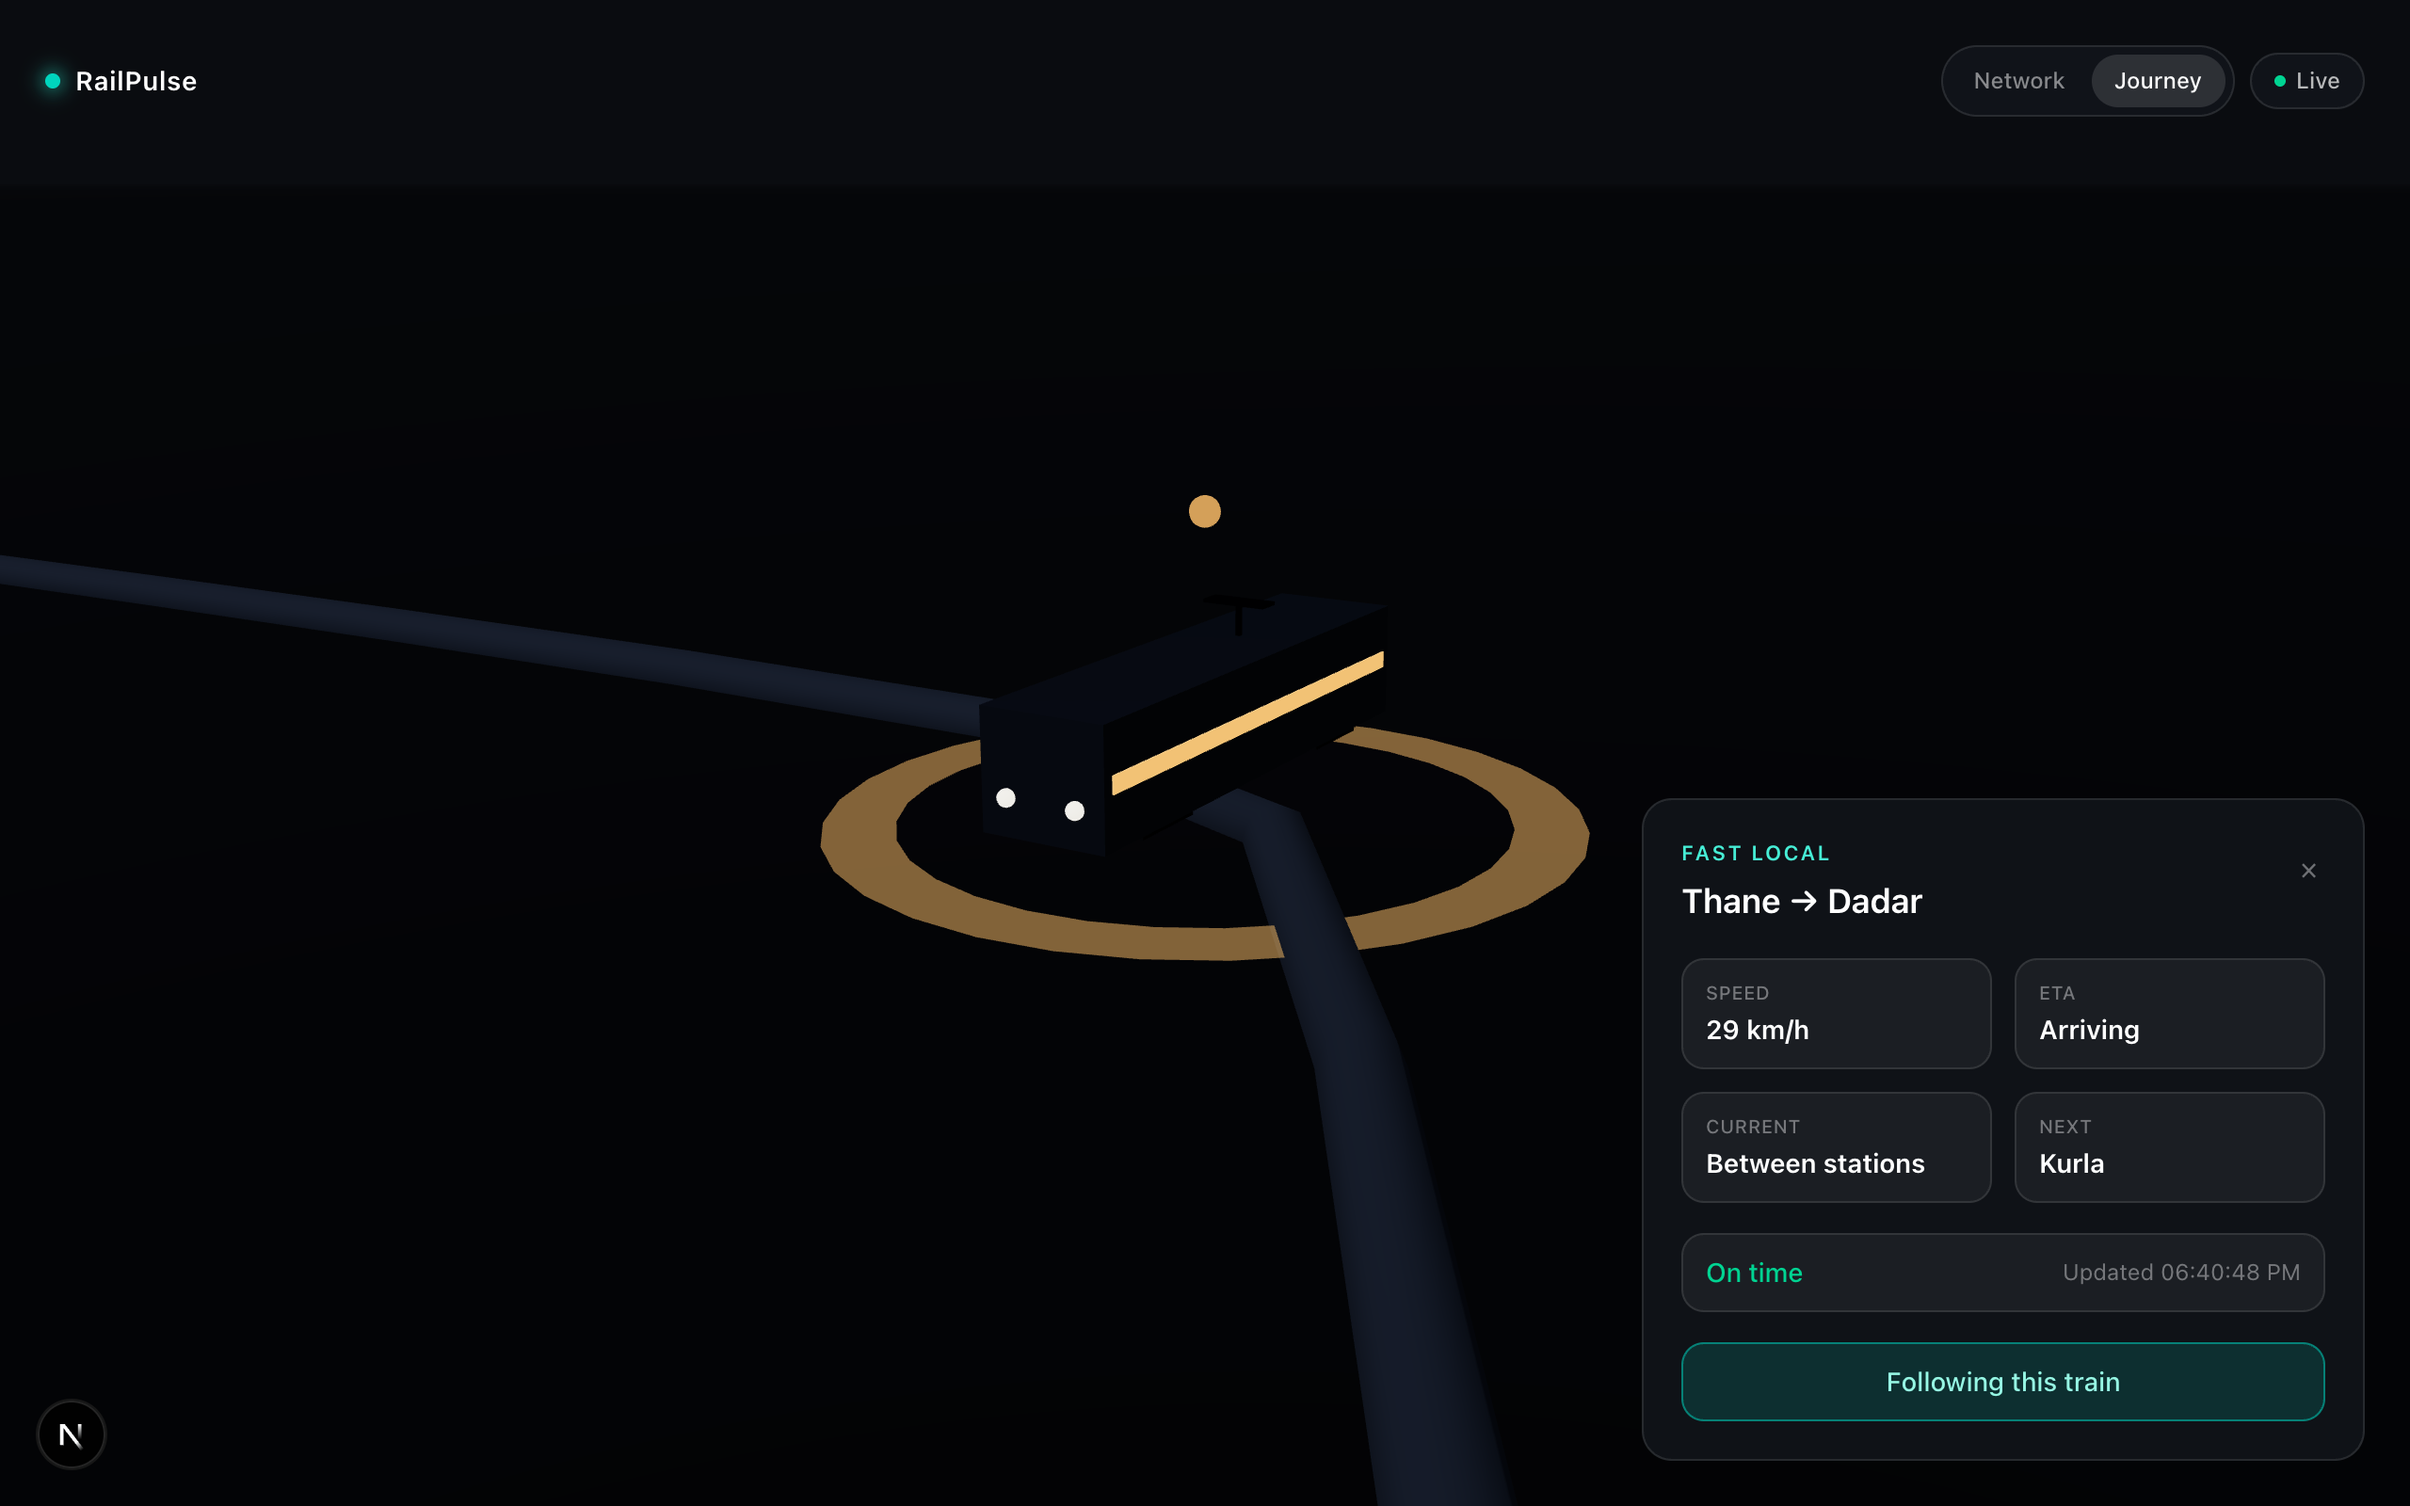
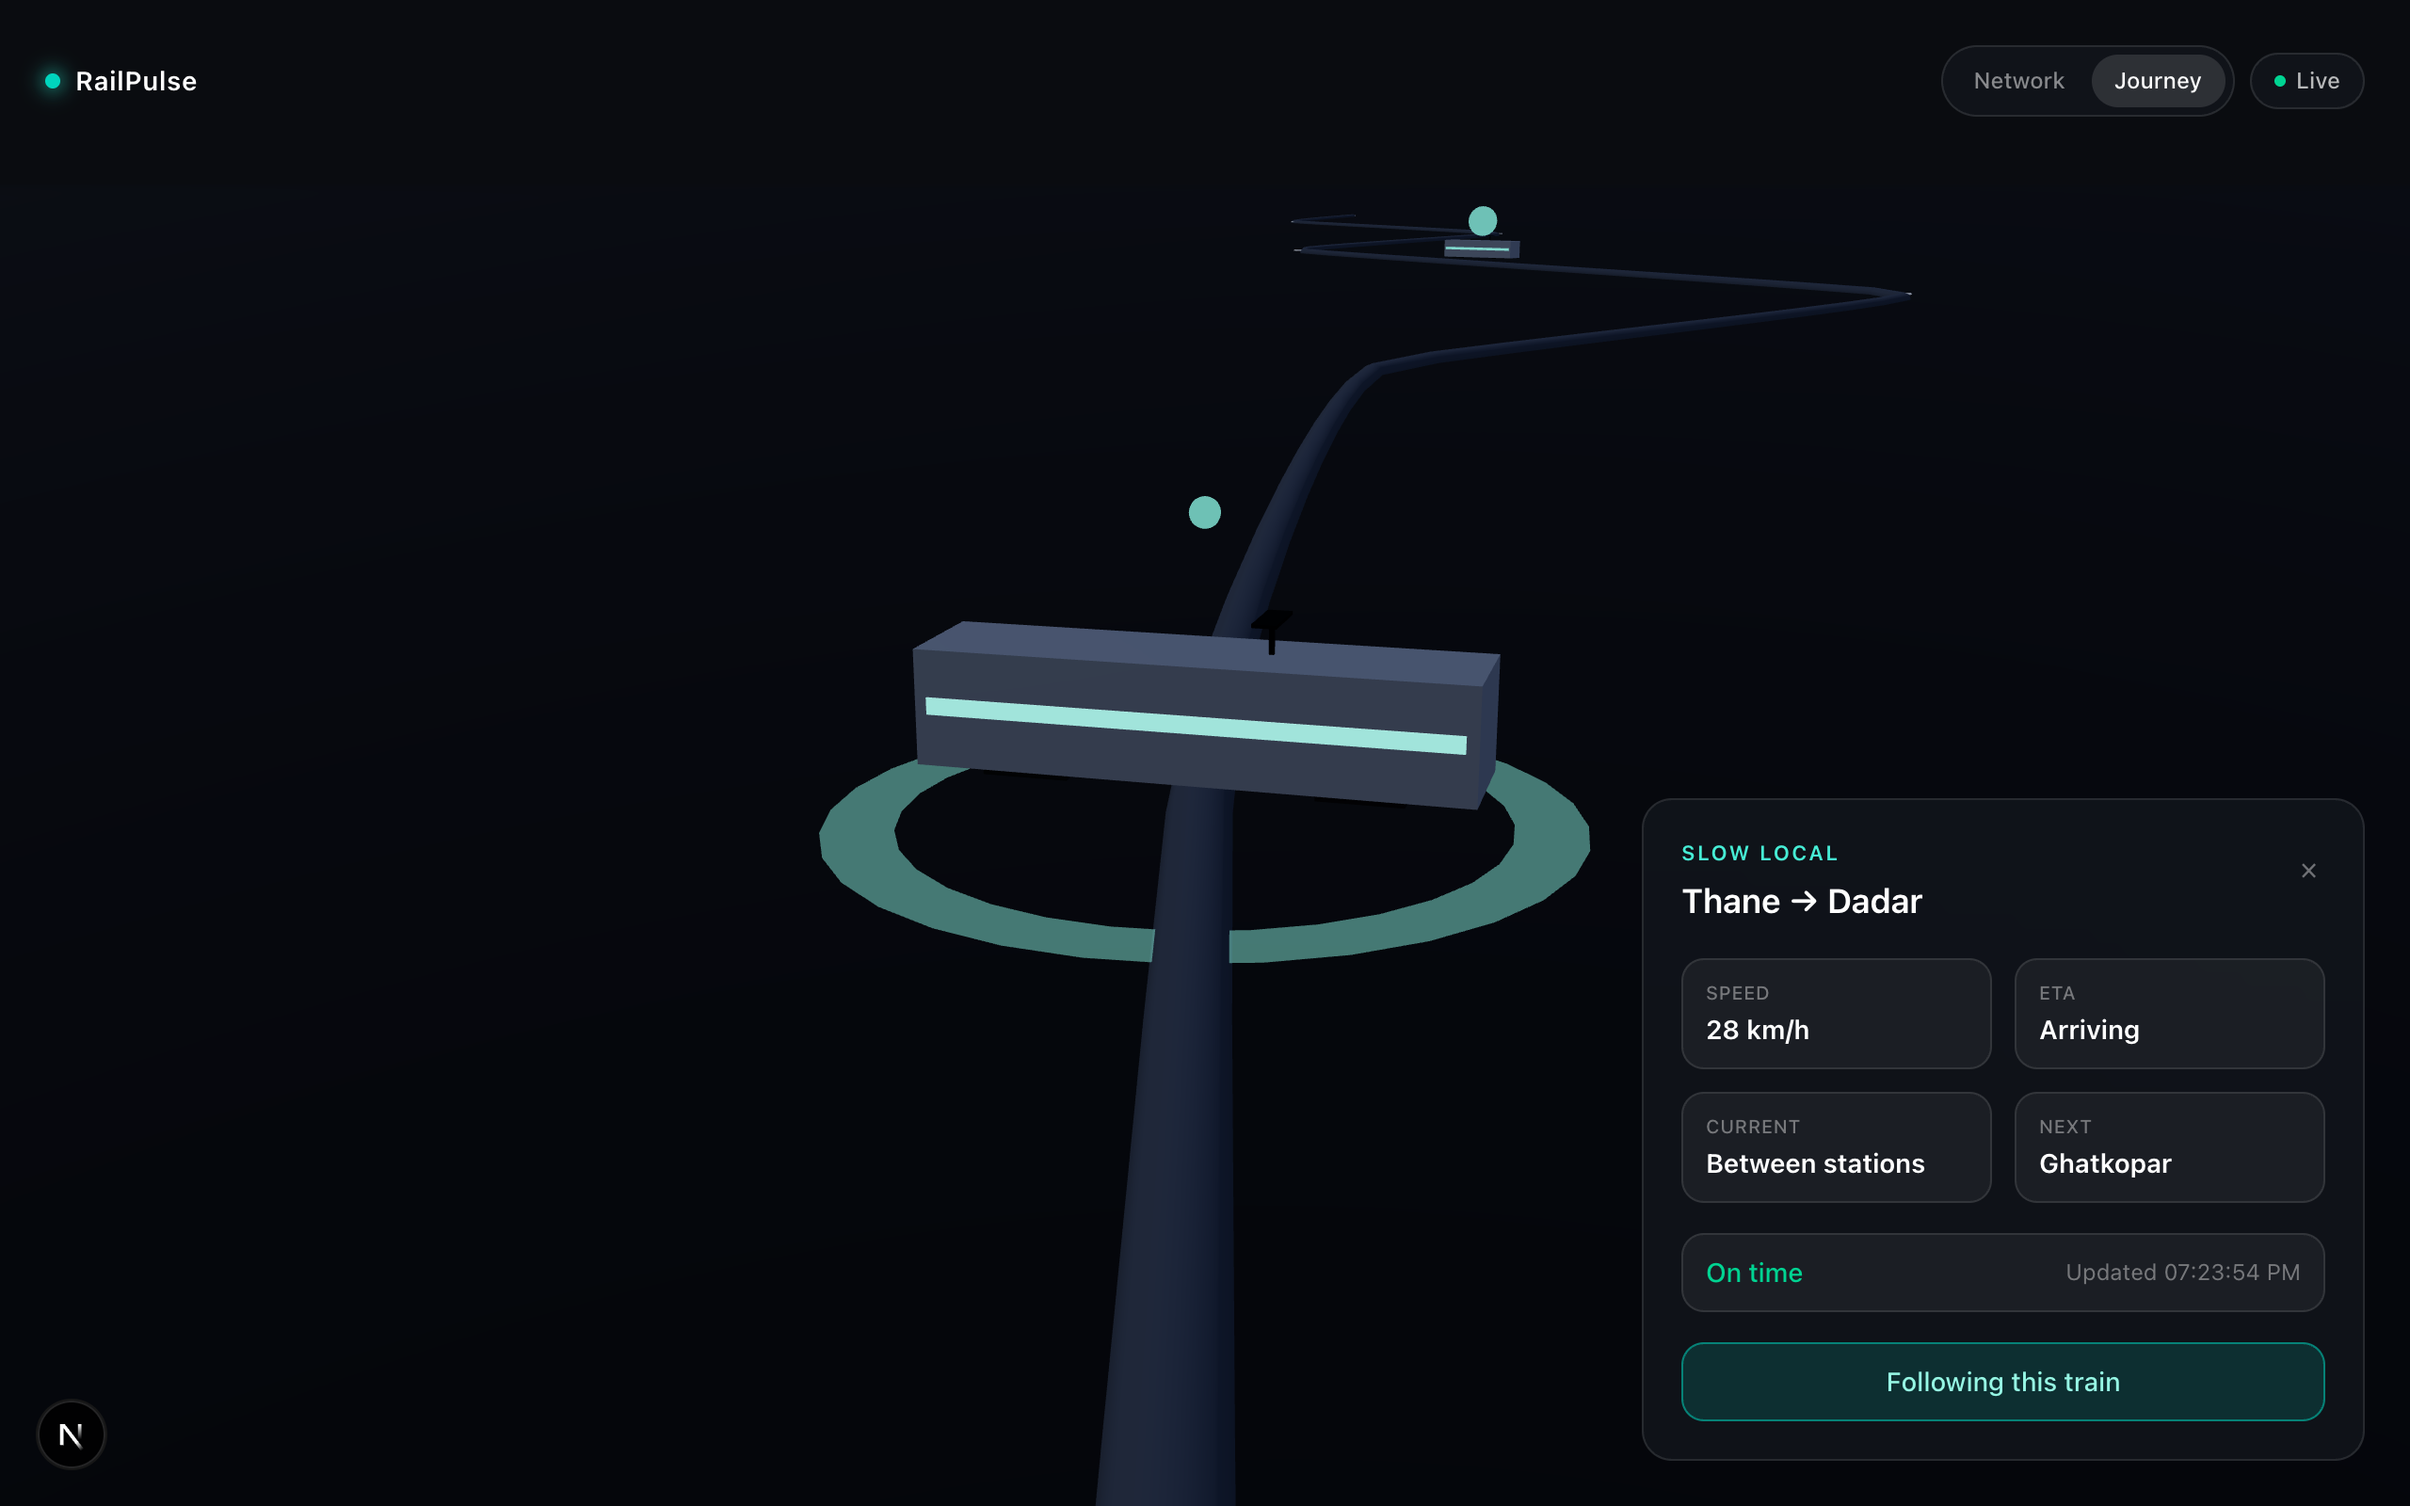
Fix trains rendering as near-black in the 3D scene
The train body material (#3c4452, metalness 0.5) combined with a single
directional light meant any face not directly hit by that light had
almost nothing lighting it - ambient/hemisphere fill was too weak to
compensate, so trains read as black silhouettes from most camera angles
(visible in the just-added README screenshots).

Fix: lighter body color, lower metalness/higher roughness (less reliant
on a specular hit to show any color), a small baseline self-emissive
tint so the body is never literally black in shadow, plus a second fill
light from roughly the opposite side and stronger ambient/hemisphere
intensity. Re-captured the README screenshots to confirm.

diff --git a/frontend/components/three/Scene.tsx b/frontend/components/three/Scene.tsx
@@ -31,9 +31,14 @@ export function Scene() {
     >
       <color attach="background" args={["#0a0c10"]} />
       <fog attach="fog" args={["#0a0c10", 900, 3600]} />
-      <ambientLight intensity={0.6} />
-      <hemisphereLight args={["#3a4a63", "#05060a", 0.5]} />
-      <directionalLight position={[400, 600, 250]} intensity={1.15} color="#e7edff" />
+      <ambientLight intensity={0.95} />
+      <hemisphereLight args={["#5a7099", "#0d1117", 0.85]} />
+      <directionalLight position={[400, 600, 250]} intensity={1.3} color="#e7edff" />
+      {/* Fill light from roughly the opposite side, so a train's face
+          away from the key light doesn't read as pure black from the
+          follow camera (which can end up on any side of a train
+          depending on its heading). */}
+      <directionalLight position={[-350, 250, -300]} intensity={0.55} color="#8fb4ff" />
 
       <mesh rotation={[-Math.PI / 2, 0, 0]} position={[0, -0.05, 0]}>
         <planeGeometry args={[20000, 20000]} />

diff --git a/frontend/components/three/TrainMesh.tsx b/frontend/components/three/TrainMesh.tsx
@@ -105,9 +105,11 @@ export function TrainMesh({ trainId }: { trainId: string }) {
         <boxGeometry args={[BODY_WIDTH, BODY_HEIGHT, BODY_LENGTH]} />
         <meshStandardMaterial
           ref={bodyMaterialRef}
-          color="#3c4452"
-          metalness={0.5}
-          roughness={0.3}
+          color="#6b7482"
+          emissive="#20242c"
+          emissiveIntensity={0.6}
+          metalness={0.25}
+          roughness={0.55}
         />
       </mesh>
 
